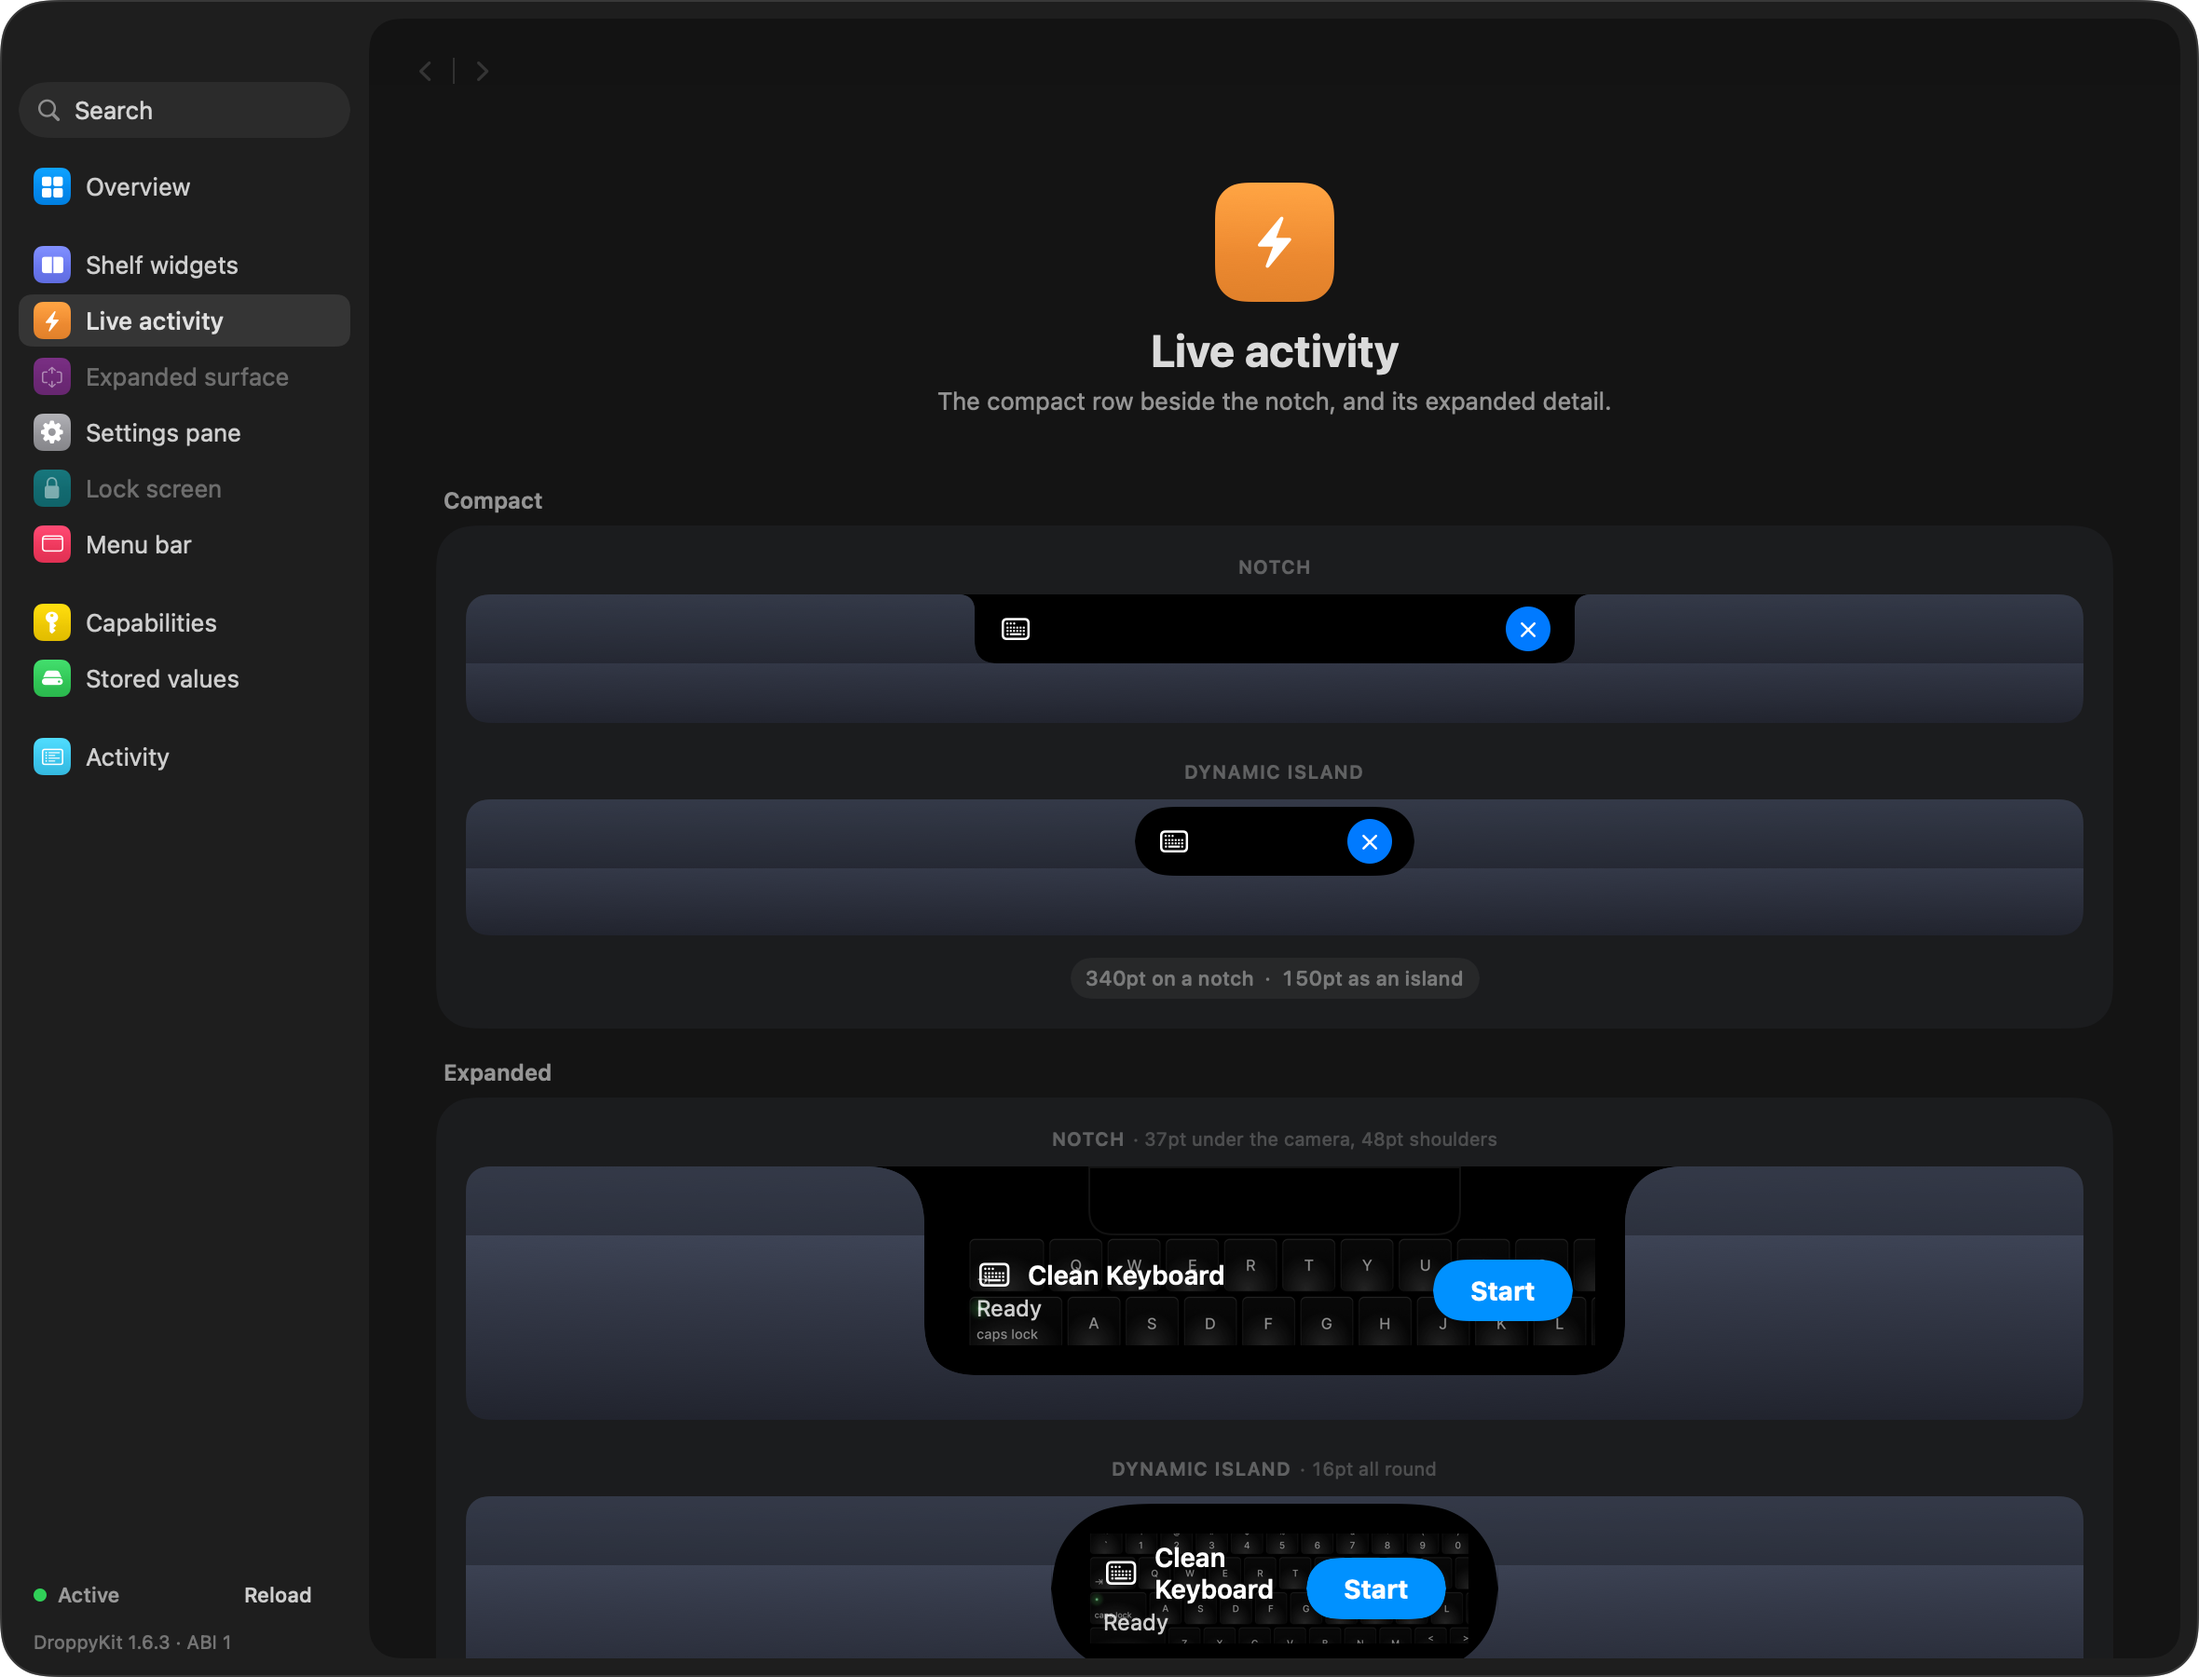
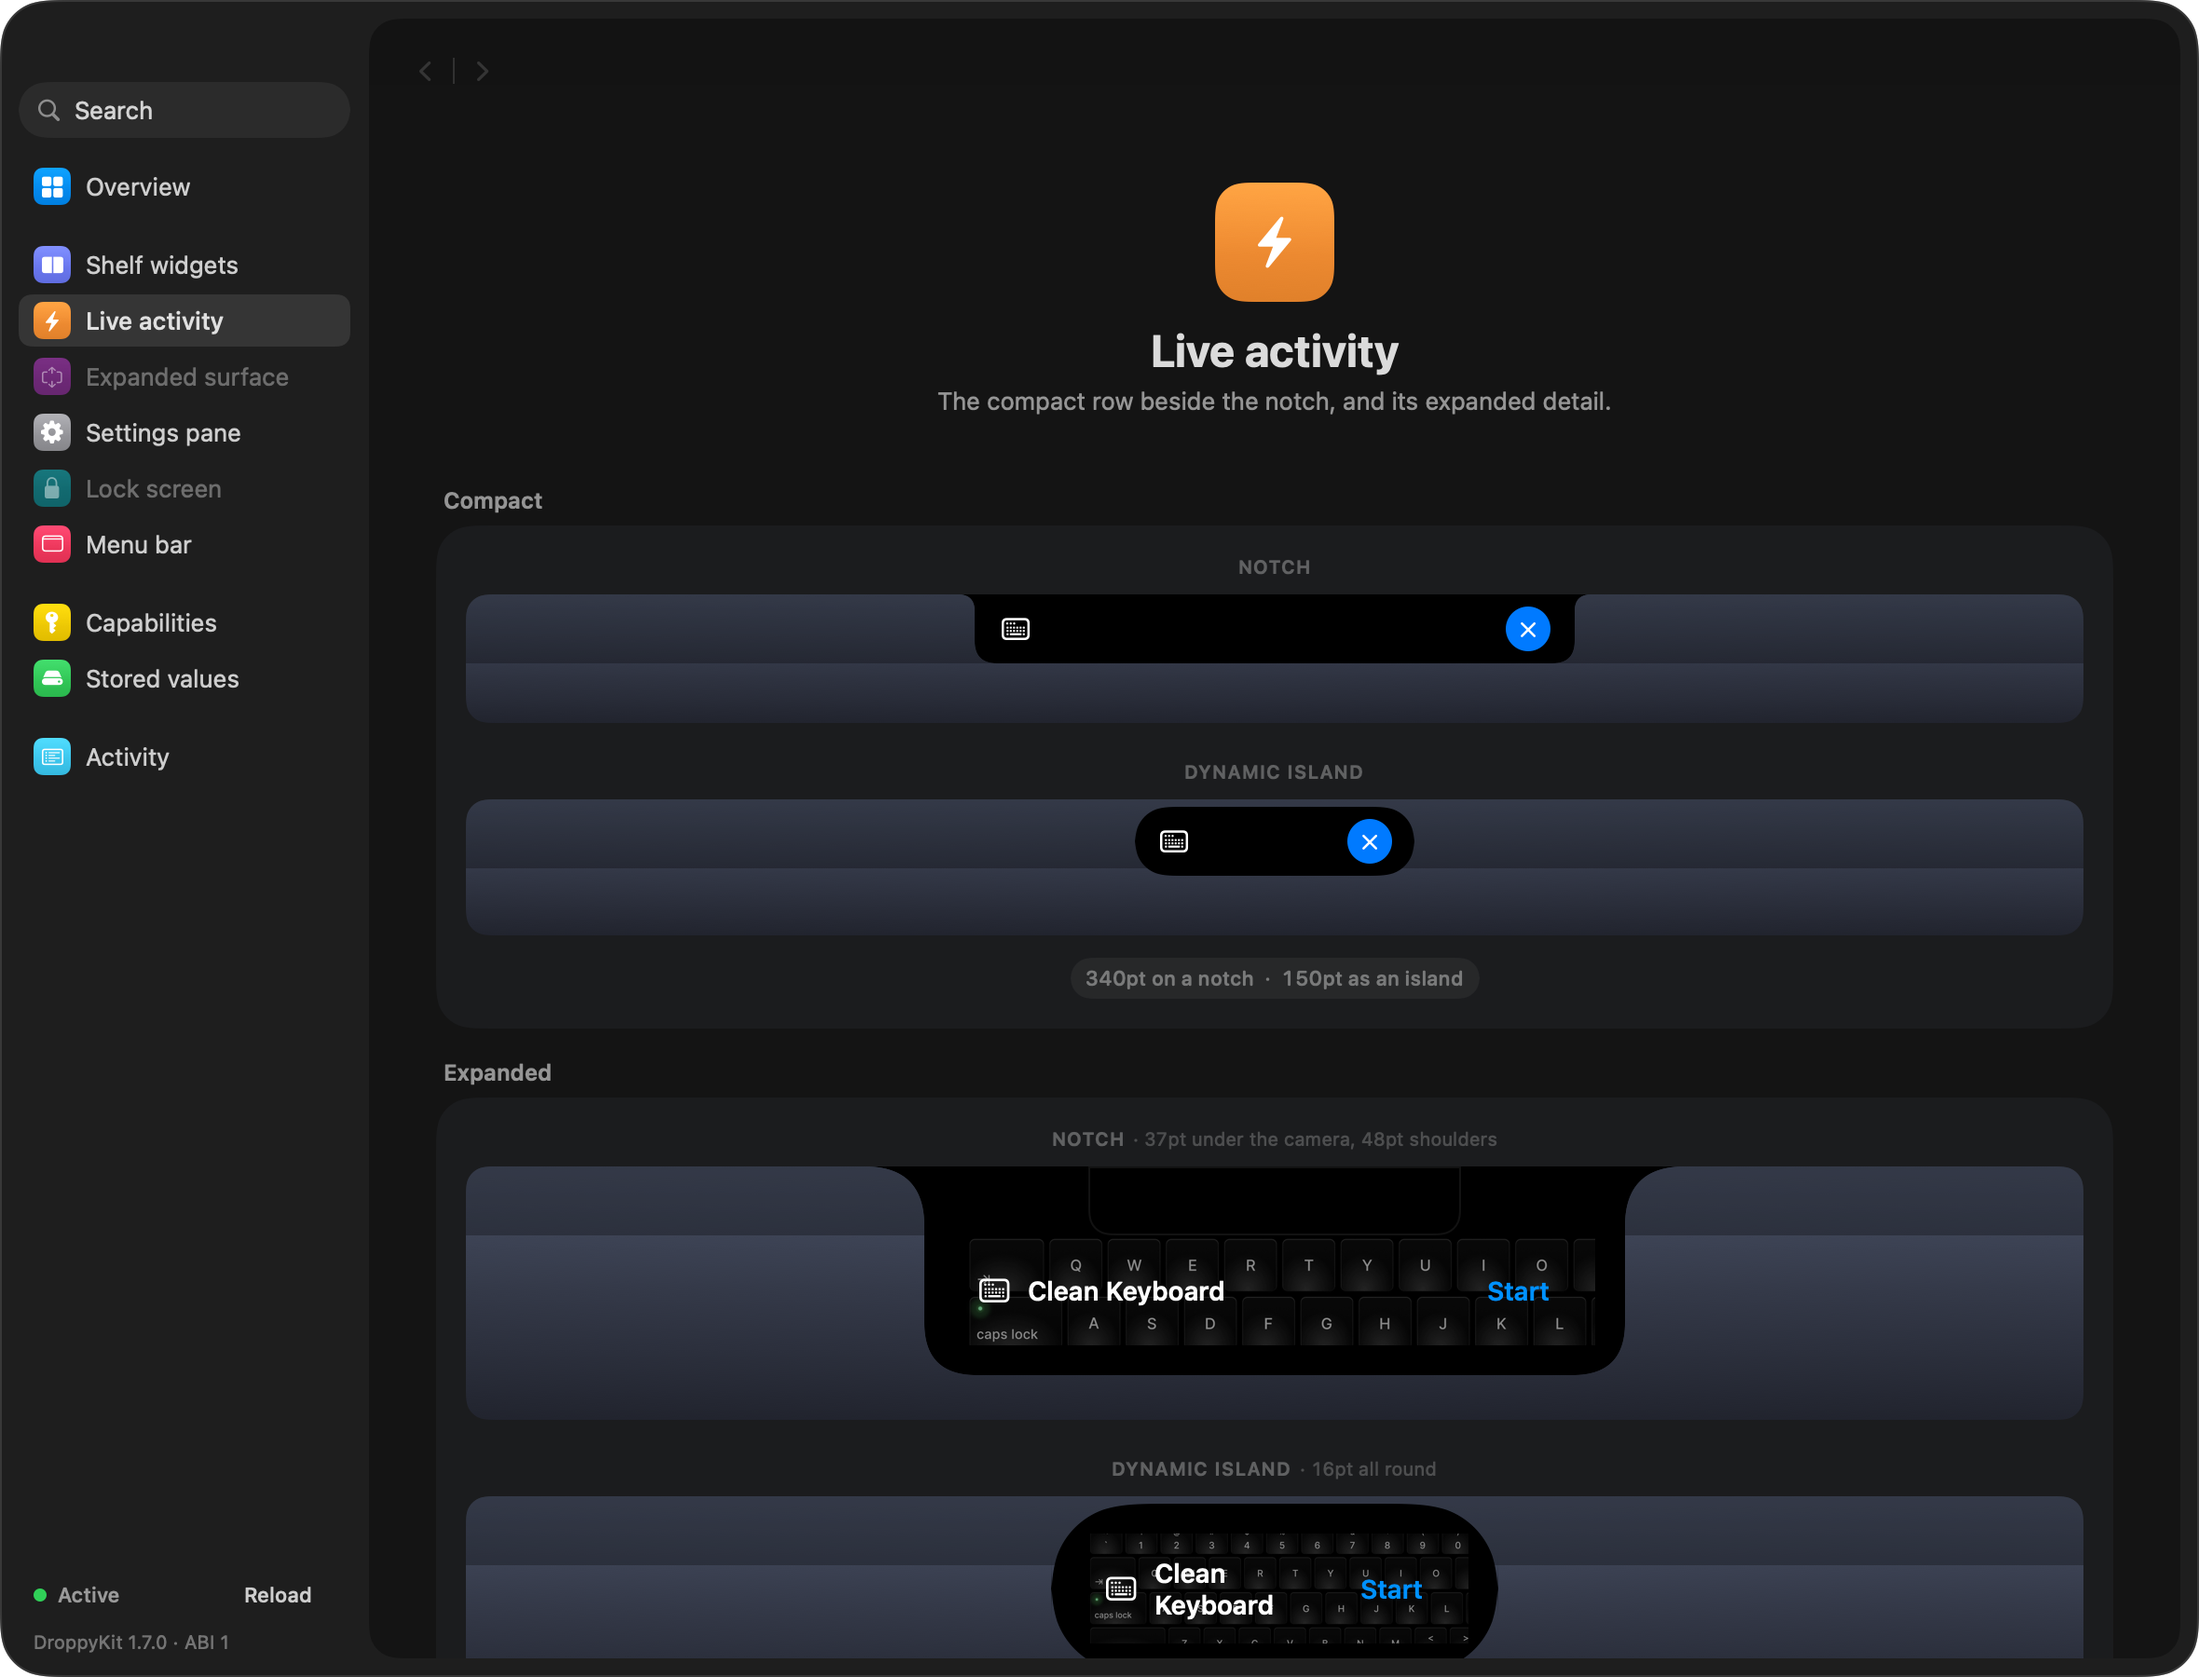
feat: add menu bar toggle setting, update droplet UI, and upgrade to DroppyKit 1.7.0

diff --git a/Sources/Cleankeyboard/CleankeyboardDroplet.swift b/Sources/Cleankeyboard/CleankeyboardDroplet.swift
@@ -146,16 +146,9 @@ public final class CleankeyboardDroplet: NSObject, ObservableObject, Droplet {
         if isCleaning {
             activitySubject.send(
                 LiveActivityState(
-                    priority: 999999,
+                    priority: 200,
                     accessibilityTitle: "Keyboard Locked",
-                    isInteractive: true,
-                    joinsPersistentActivitySet: true,
-                    compactPresentation: CompactLiveActivityPresentationMetadata(
-                        id: "cleankeyboard",
-                        accessibilityLabel: "Keyboard",
-                        accessibilityValue: "Locked",
-                        preferredWidth: 64
-                    )
+                    isInteractive: true
                 )
             )
         } else {
@@ -198,47 +191,47 @@ private struct CleankeyboardWidget: View {
         Button {
             droplet.toggleCleaning()
         } label: {
-            ZStack {
-                if let path = Bundle.module.path(forResource: "Keyboard", ofType: "png"),
-                   let nsImage = NSImage(contentsOfFile: path) {
-                    Image(nsImage: nsImage)
-                        .resizable()
-                        .scaledToFill()
-                        .opacity(0.8)
+            VStack(alignment: .leading, spacing: DroppySpacing.sm) {
+                HStack(spacing: DroppySpacing.xsm) {
+                    Image(systemName: "keyboard")
+                        .font(.system(size: 14, weight: .medium))
+                        .foregroundStyle(.white)
+                    Text("Clean Keyboard")
+                        .font(.system(size: 12, weight: .semibold))
+                        .foregroundStyle(.white)
+                    Spacer(minLength: 0)
                 }
                 
-                Color.black.opacity(0.2) // extra darkening
-                    
-                VStack(alignment: .leading, spacing: DroppySpacing.sm) {
-                    HStack(spacing: DroppySpacing.xsm) {
-                        Image(systemName: "keyboard.macwindow")
-                            .font(.system(size: 12, weight: .medium))
-                            .foregroundStyle(.white)
-                        Text("Clean Keyboard")
-                            .font(.system(size: 12, weight: .semibold))
-                            .foregroundStyle(.white)
-                        Spacer(minLength: 0)
-                    }
-                    
+                Spacer(minLength: 0)
+                
+                HStack {
                     Spacer(minLength: 0)
-                    
-                    HStack {
-                        Spacer()
-                        Text(droplet.isCleaning ? "Click to Stop" : "Click to Start")
-                            .font(.system(size: 16, weight: .medium))
-                            .foregroundStyle(.white)
-                            .padding(.vertical, 8)
-                            .padding(.horizontal, 16)
-                            .background(droplet.isCleaning ? Color.red : Color.blue)
-                            .cornerRadius(8)
-                        Spacer()
-                    }
-                    
+                    Text(droplet.isCleaning ? "Click to Stop" : "Click to Start")
+                        .font(.system(size: 16, weight: .medium))
+                        .foregroundStyle(.white)
+                        .padding(.vertical, 8)
+                        .padding(.horizontal, 16)
+                        .background(droplet.isCleaning ? Color.red : Color.blue)
+                        .cornerRadius(8)
                     Spacer(minLength: 0)
                 }
-                .padding(context.contentInsets)
+                
+                Spacer(minLength: 0)
             }
+            .padding(DroppySpacing.mdl)
             .frame(maxWidth: .infinity, maxHeight: .infinity, alignment: .topLeading)
+            .background {
+                ZStack {
+                    if let path = Bundle.module.path(forResource: "Keyboard", ofType: "png"),
+                       let nsImage = NSImage(contentsOfFile: path) {
+                        Image(nsImage: nsImage)
+                            .resizable()
+                            .scaledToFill()
+                            .opacity(0.8)
+                    }
+                    Color.black.opacity(0.2)
+                }
+            }
             .clipped()
         }
         .buttonStyle(.plain)
@@ -305,9 +298,6 @@ extension CleankeyboardDroplet: LiveActivityProviding {
                             Text("Clean Keyboard")
                                 .font(.system(size: 14, weight: .semibold))
                         }
-                        Text(self.isCleaning ? "Locking..." : "Ready")
-                            .font(.system(size: 12))
-                            .foregroundStyle(.white.opacity(0.8))
                     }
                     .foregroundStyle(.white)
                     
@@ -317,14 +307,12 @@ extension CleankeyboardDroplet: LiveActivityProviding {
                         self.toggleCleaning()
                     } label: {
                         Text(self.isCleaning ? "Stop" : "Start")
-                            .font(.system(size: 14, weight: .bold))
-                            .foregroundStyle(.white)
-                            .padding(.vertical, 8)
-                            .padding(.horizontal, 20)
-                            .background(self.isCleaning ? Color.red : Color.blue)
-                            .cornerRadius(16)
+                            .font(.system(size: 14, weight: .semibold))
+                            .foregroundStyle(self.isCleaning ? Color.red : Color.blue)
+                            .padding(.horizontal, 12)
+                            .padding(.vertical, 4)
                     }
-                    .buttonStyle(.plain)
+                    .buttonStyle(DroppyGlassButtonStyle())
                 }
                 .padding(.horizontal, DroppySpacing.md)
             }
@@ -348,12 +336,14 @@ extension CleankeyboardDroplet: LiveActivityProviding {
 
 extension CleankeyboardDroplet: SettingsPaneProviding {
     public func makeSettingsPane(context: SettingsPaneContext) -> AnyView {
-        AnyView(CleankeyboardSettingsPane())
+        AnyView(CleankeyboardSettingsPane(droplet: self))
     }
 }
 
 private struct CleankeyboardSettingsPane: View {
+    @ObservedObject var droplet: CleankeyboardDroplet
     @AppStorage("preventScreenSleep") private var preventScreenSleep = true
+    @AppStorage("showMenuBarExtra") private var showMenuBarExtra = false
     
     var body: some View {
         VStack(alignment: .leading, spacing: DroppySpacing.lg) {
@@ -363,7 +353,16 @@ private struct CleankeyboardSettingsPane: View {
                     subtitle: "Keeps the screen awake while cleaning so you aren't locked out of your Mac.",
                     isOn: $preventScreenSleep
                 )
+                
+                DropletToggleRow(
+                    title: "Show in Menu Bar",
+                    subtitle: "Show an icon in the system menu bar to quickly toggle Clean Keyboard.",
+                    isOn: $showMenuBarExtra
+                )
             }
+        }
+        .onChange(of: showMenuBarExtra) {
+            droplet.objectWillChange.send()
         }
     }
 }
@@ -372,7 +371,10 @@ private struct CleankeyboardSettingsPane: View {
 
 extension CleankeyboardDroplet: MenuBarExtraProviding {
     public func makeMenuBarExtra() -> MenuBarExtraDescriptor? {
-        MenuBarExtraDescriptor(title: "Clean Keyboard", systemImage: "keyboard.macwindow") {
+        let show = UserDefaults.standard.object(forKey: "showMenuBarExtra") as? Bool ?? false
+        guard show else { return nil }
+        
+        return MenuBarExtraDescriptor(title: "Clean Keyboard", systemImage: "keyboard.macwindow") {
             AnyView(
                 Button(self.isCleaning ? "Stop Cleaning Keyboard" : "Start Cleaning Keyboard") {
                     self.toggleCleaning()
